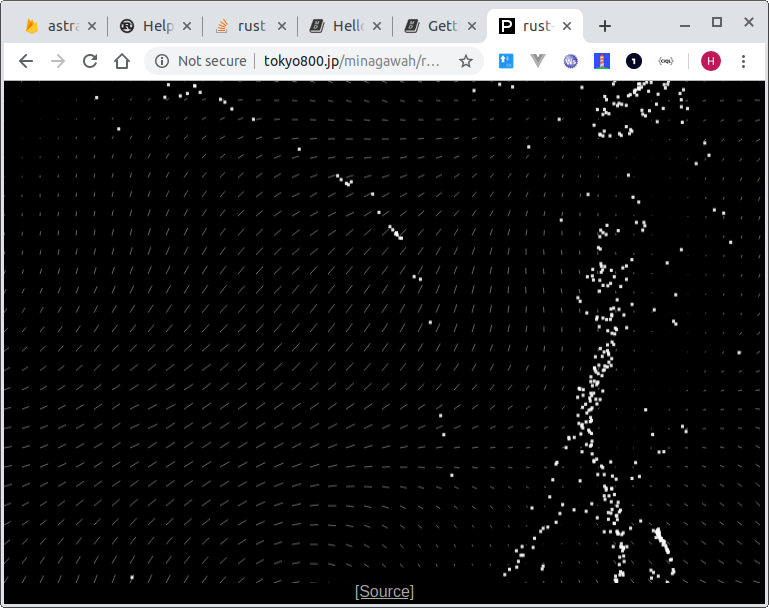
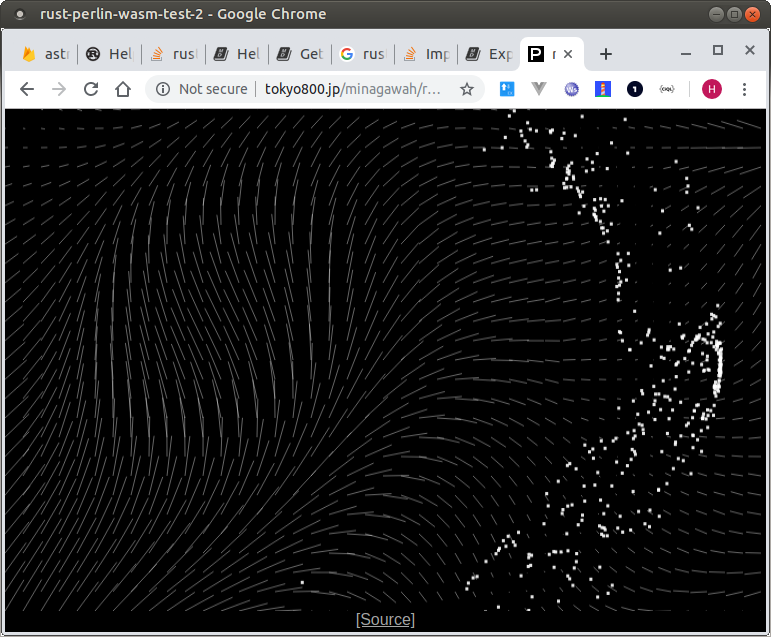
(1) Attempt to pass structs to JS (2) Magnifying the wind direction

diff --git a/src/Flows.ts b/src/Flows.ts
@@ -6,6 +6,8 @@ import Victor from 'victor';
 import { Rect, Particle } from './types';
 import { rand, withinRect } from './lib/util';
 import WasmNoiseFactory from './lib/WasmNoise';
+import { getIndex, memory as getWasmMemory } from './lib/WasmNoise';
+import { Field as FieldType, Slot as SlotType } from '../wasm-noise/pkg/index.d.ts';
 
 Victor.prototype.setAngle = function (angle) {
   const length = this.length();
@@ -41,6 +43,8 @@ let noise;
  */
 export default async function factory (canvas: HTMLCanvasElement) {
   const noise: any = await WasmNoiseFactory();
+  // const { Field, __wbindgen_string_new } = noise || {};
+  const { Field } = noise || {};
 
   // @todo
   // TS2339: Property 'strokeStyle' does not exist on type 'HTMLCanvasElement'.
@@ -55,6 +59,7 @@ export default async function factory (canvas: HTMLCanvasElement) {
   let zin = 0;
   let particles: any[] = [];
   let field: any[] = [];
+  let fieldx: FieldType;
 
   // --------------------------
   // Reset
@@ -87,7 +92,7 @@ export default async function factory (canvas: HTMLCanvasElement) {
    * @param {number} [o.width] Canvas width
    * @param {number} [o.height] Canvas height
    */
-  const reset = (args: any = {}) => {
+  const reset = async (args: any = {}) => {
     print('+++++++ reset()');
     const { num, width: w, height: h }: { num: number, width: number, height: number } = args;
 
@@ -100,6 +105,30 @@ export default async function factory (canvas: HTMLCanvasElement) {
 
     cols = Math.round(width / zsize) + 1;
     rows = Math.round(height / zsize) + 1;
+
+    // fieldx = <FieldType> Field.create(rows, cols);
+    // if (fieldx) {
+    //   const memory = await getWasmMemory();
+    //   const { buffer } = memory || {};
+    //   const pointer = fieldx.slots();
+    //   const slots = new Uint8Array(buffer, pointer, rows * cols);
+    //   const row = 1;
+    //   const col = 1;
+    //   const index = getIndex({ rows, row, col });
+    //   print(`[row] ${row} [col] ${col}`);
+    //   print(`pointer: ${pointer}`);
+    //   console.log('buffer', buffer);
+    //   console.log('slots', slots);
+    //   const slot: SlotType = slots[index];
+    //   if (slot) {
+    //     print(`Found a slot for: ${index}`);
+    //     const x = slot.x();
+    //     const y = slot.y();
+    //     print(`--> (${x}, ${y})`);
+    //   } else {
+    //     print(`No slots for: ${index}`);
+    //   }
+    // }
 
     resetParticles(num);
     resetField();
@@ -160,12 +189,14 @@ export default async function factory (canvas: HTMLCanvasElement) {
   
   const drawField = (): void => {
     ctx.strokeStyle = 'hsla(0, 0%, 100%, 0.4)';
+    // const magnify = 2;
+    const magnify = 7;
     for (let x = 0; x < cols; x++) {
       for (let y = 0; y < rows; y++) {
         const px0 = x * zsize;
         const py0 = y * zsize;
-        const px1 = px0 + field[x][y].x * zsize * 2;
-        const py1 = py0 + field[x][y].y * zsize * 2;
+        const px1 = px0 + field[x][y].x * zsize * magnify;
+        const py1 = py0 + field[x][y].y * zsize * magnify;
         ctx.beginPath();
         ctx.moveTo(px0, py0);
         ctx.lineTo(px1, py1);

diff --git a/src/app.ts b/src/app.ts
@@ -39,7 +39,7 @@ let lt = 0;
 let et = 0;
 let tick = 0;
 
-const reset = () => {
+const reset = async (): Promise<void> => {
   print('+++++++ reset()');
   const { width, height }: Rect = getCanvasSize();
   print(`${width}x${height}`);
@@ -49,7 +49,7 @@ const reset = () => {
 
   const num: number = width * height / 900;
   // const num = 60;
-  flo.reset({ num, width, height });
+  await flo.reset({ num, width, height });
 };
 
 let suspend = false;
@@ -86,7 +86,7 @@ const step = () => {
     (window as any).addEventListener('resize', debounce(reset, 800), false);
     (window as any).addEventListener('click', reset, false);
 
-    reset();
+    await reset();
     step();
   } catch (err) {
     console.error(err);

diff --git a/src/lib/WasmNoise.ts b/src/lib/WasmNoise.ts
@@ -1,9 +1,14 @@
 let instance: any;
 
-/**
- * @public
- * @returns {Promise}
- */
+export const getIndex: Function = ({ rows = 0, row = 0, col = 0 }): number => {
+  return row * rows + col;
+};
+
+export const memory: Function = async (): Promise<any> => {
+  const { memory } = await import('../../wasm-noise/pkg/index_bg.wasm') || {};
+  return memory;
+};
+
 export default async function factory (): Promise<any> {
   if (!instance) {
     try {

diff --git a/wasm-noise/src/lib.rs b/wasm-noise/src/lib.rs
@@ -46,6 +46,56 @@ macro_rules! console_log {
 // }
 
 #[wasm_bindgen]
+#[derive(Clone, Debug)]
+pub struct Slot {
+    x: u32,
+    y: u32
+}
+
+#[wasm_bindgen]
+impl Slot {
+    pub fn x(&self) -> u32 {
+        self.x
+    }
+    pub fn y(&self) -> u32 {
+        self.y
+    }
+}
+
+#[wasm_bindgen]
+pub struct Field {
+    rows: u32,
+    cols: u32,
+    slots: Vec<Slot>
+}
+
+#[wasm_bindgen]
+impl Field {
+    fn get_index(&self, row: u32, col: u32) -> usize {
+        (row * self.rows + col) as usize
+    }
+    pub fn create(rows: u32, cols: u32) -> Field {
+        let slots = (0..rows * cols).map(|i| {
+            Slot { x: 0, y: 0 }
+        }).collect();
+        Field {
+            rows,
+            cols,
+            slots
+        }
+    }
+    pub fn rows(&self) -> u32 {
+        self.rows
+    }
+    pub fn cols(&self) -> u32 {
+        self.cols
+    }
+    pub fn slots(&self) -> *const Slot {
+        self.slots.as_ptr()
+    }
+}
+
+#[wasm_bindgen]
 extern {
     fn alert(s: &str);
 }
